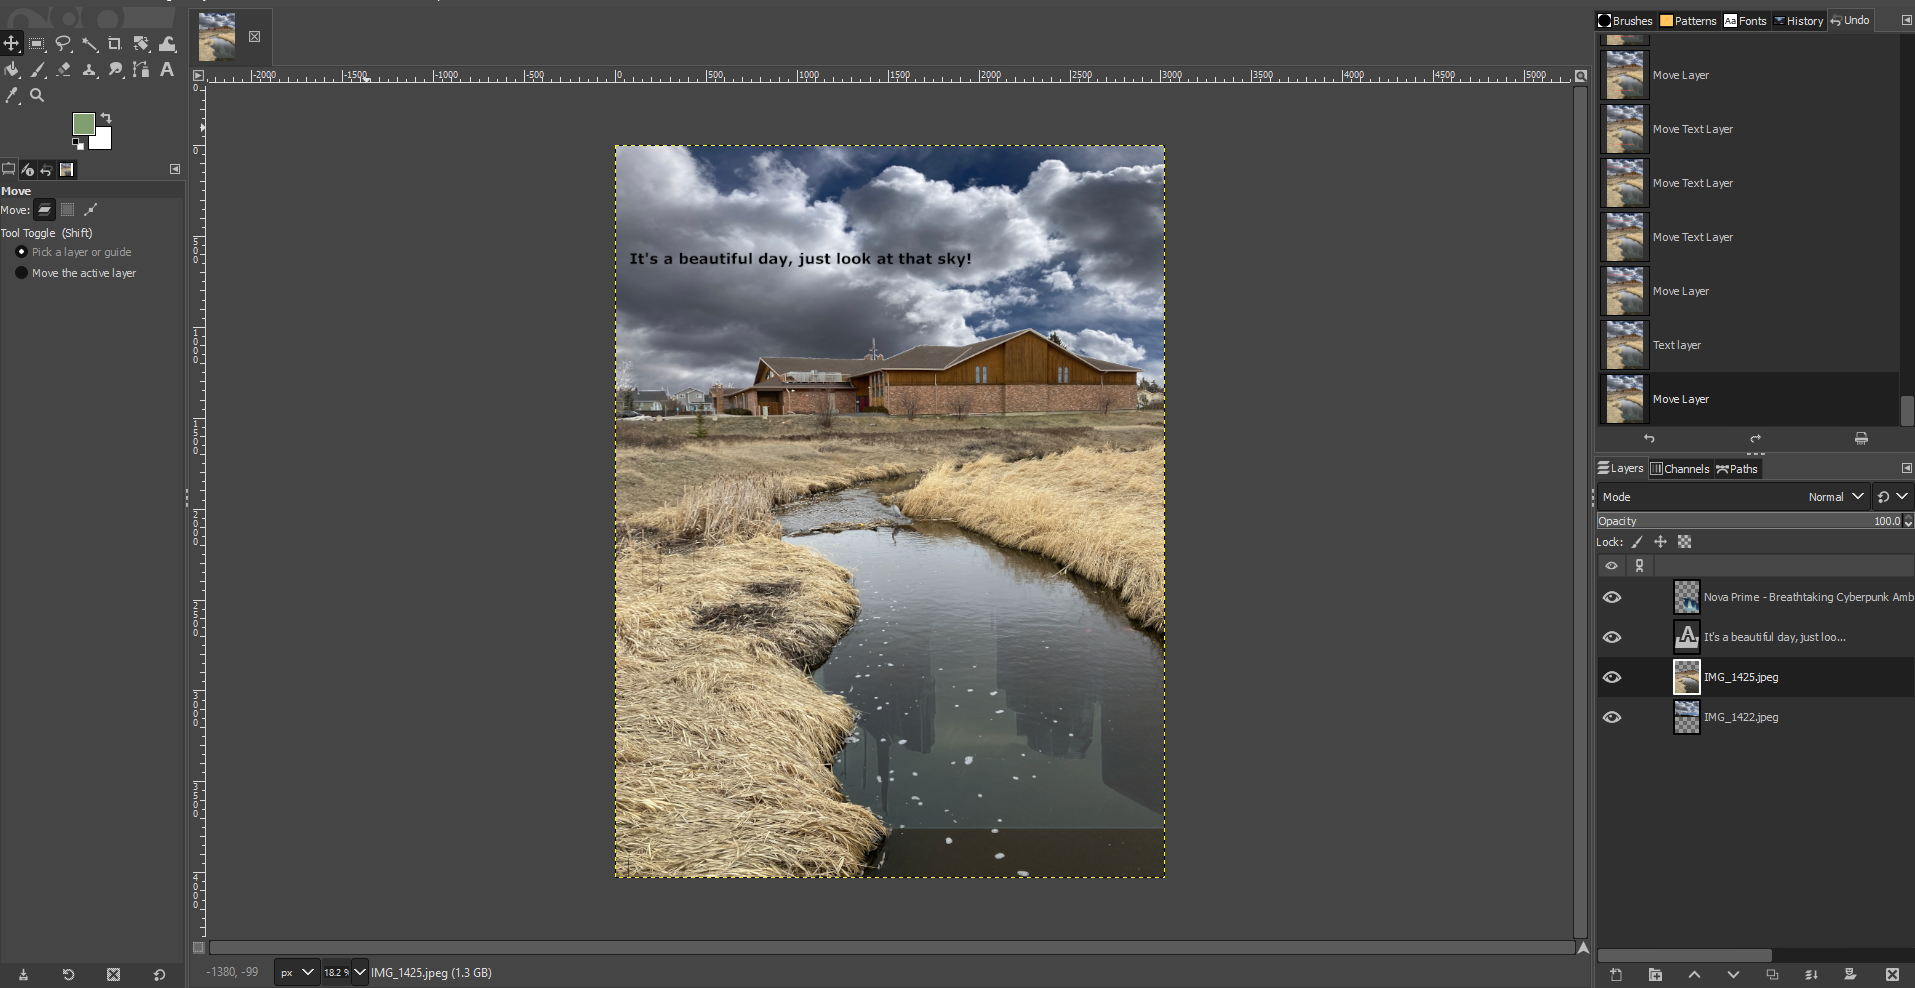
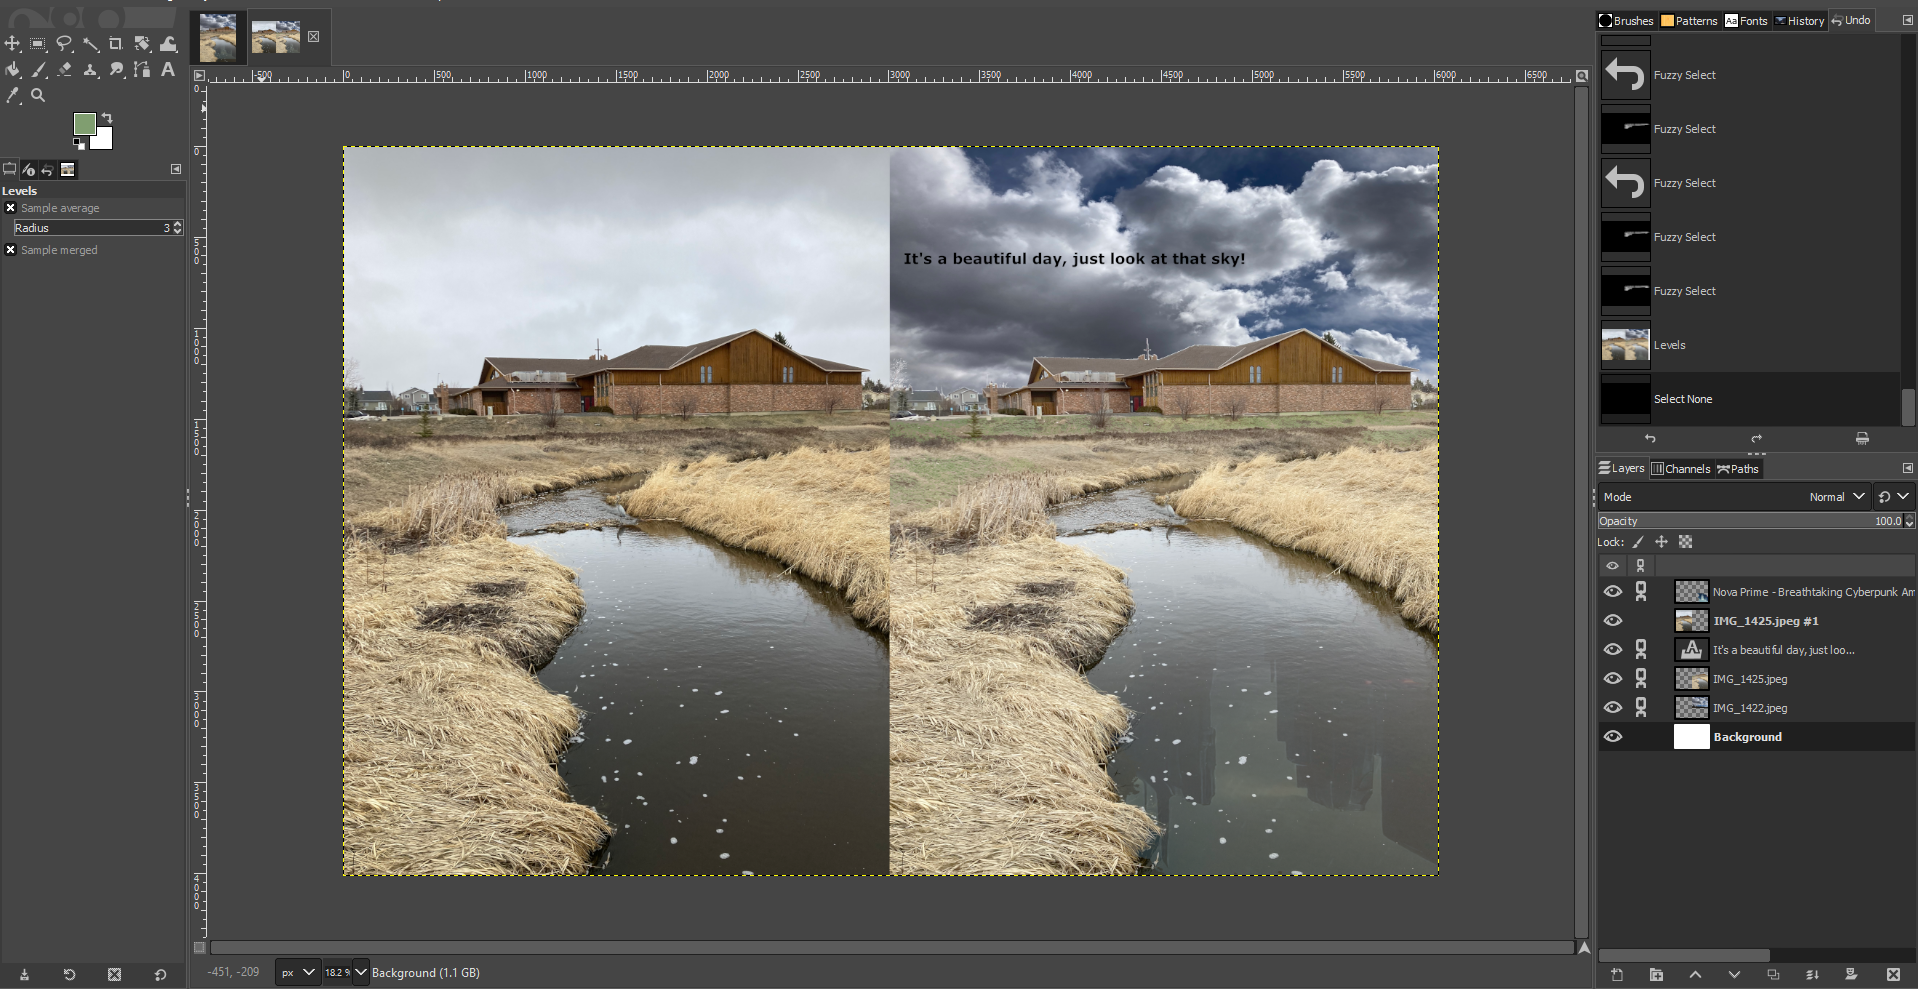
Tweaked the images. Added description. Fixed post date.

diff --git a/html5up-future-imperfect/single_Graphics.html b/html5up-future-imperfect/single_Graphics.html
@@ -69,13 +69,12 @@ This page is used for single posts
 										<h2>Graphic Generation and Editing</h2>
 									</div>
 									<div class="meta">
-										<time class="published" datetime="2015-11-01">March 7, 2024</time>
+										<time class="published" datetime="2015-11-01">March 14, 2024</time>
 										<a href="single_AuthorPage.html" class="author"><span class="name">Brandon Wenaas</span><img src="images/avatar.jpg" alt="" /></a>
 									</div>	
 								</header>
 								<span class="image featured"><img src="images/Gimp_Image.png" alt="" /></span>
-								<p>Add full description here</p>
-								<p>Second paragraph </p>
+								<p>Above is a screenshot of the image editing software GIMP. I used it to edit a simple photo of a park, replacing the sky, adding text, an artificial reflection in the water to make it more visually interesting, and rebalanced the colour levels to make the day appear brighter, and the grass more green. The image on the left is the original picture, while the one on the right is the edited version.</p>
 							</article>
 
 					</div>
